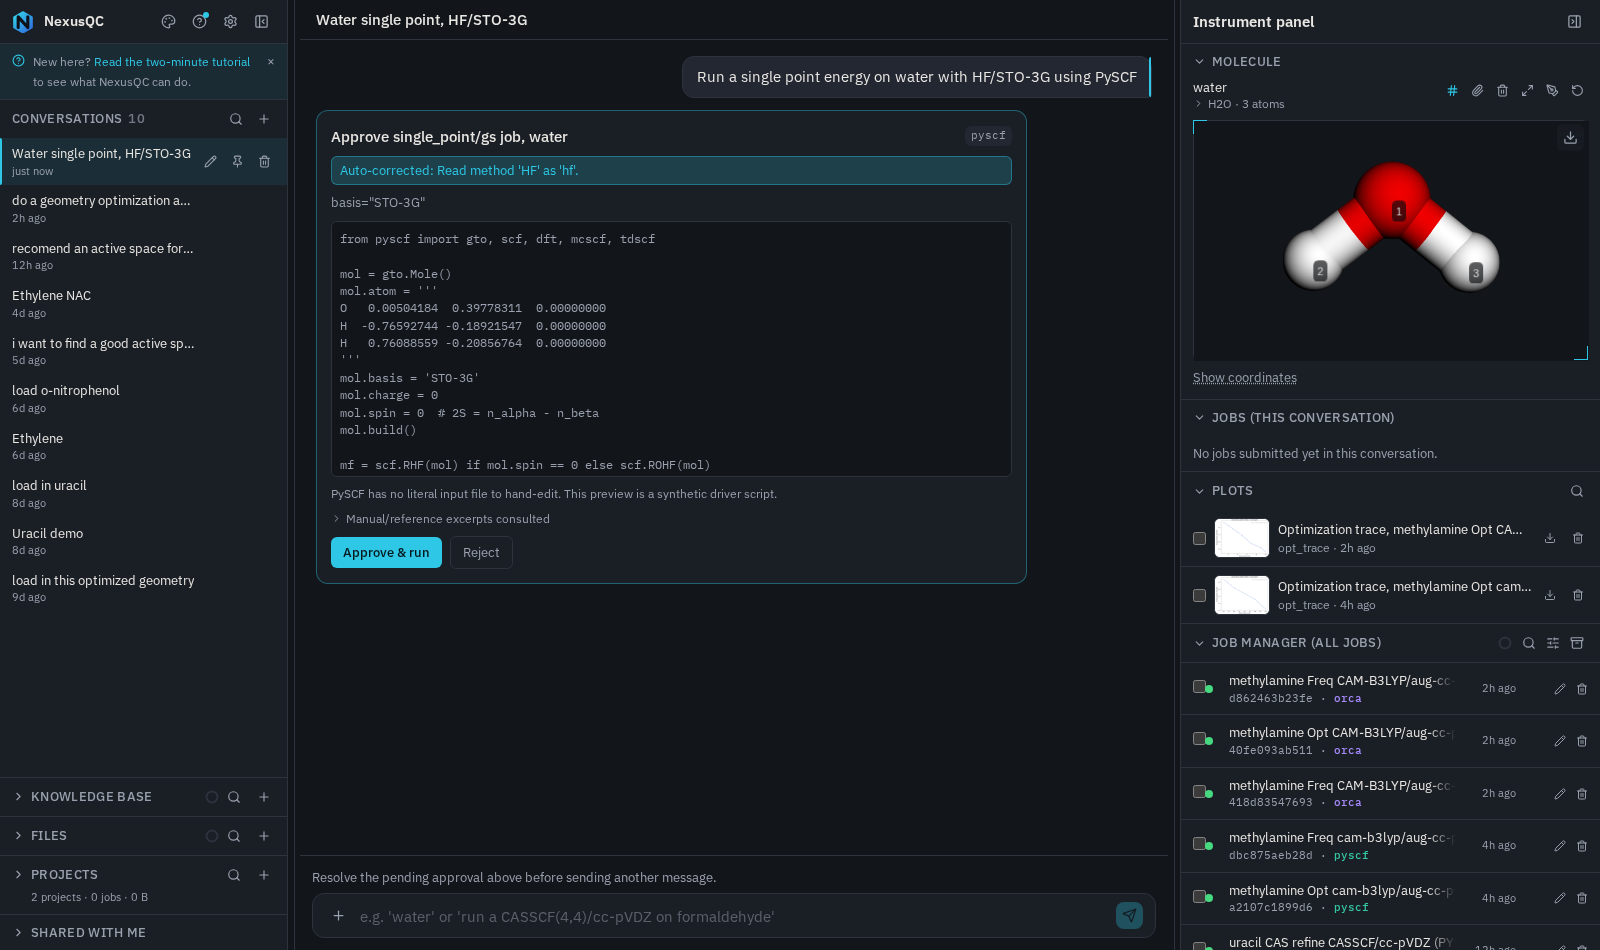
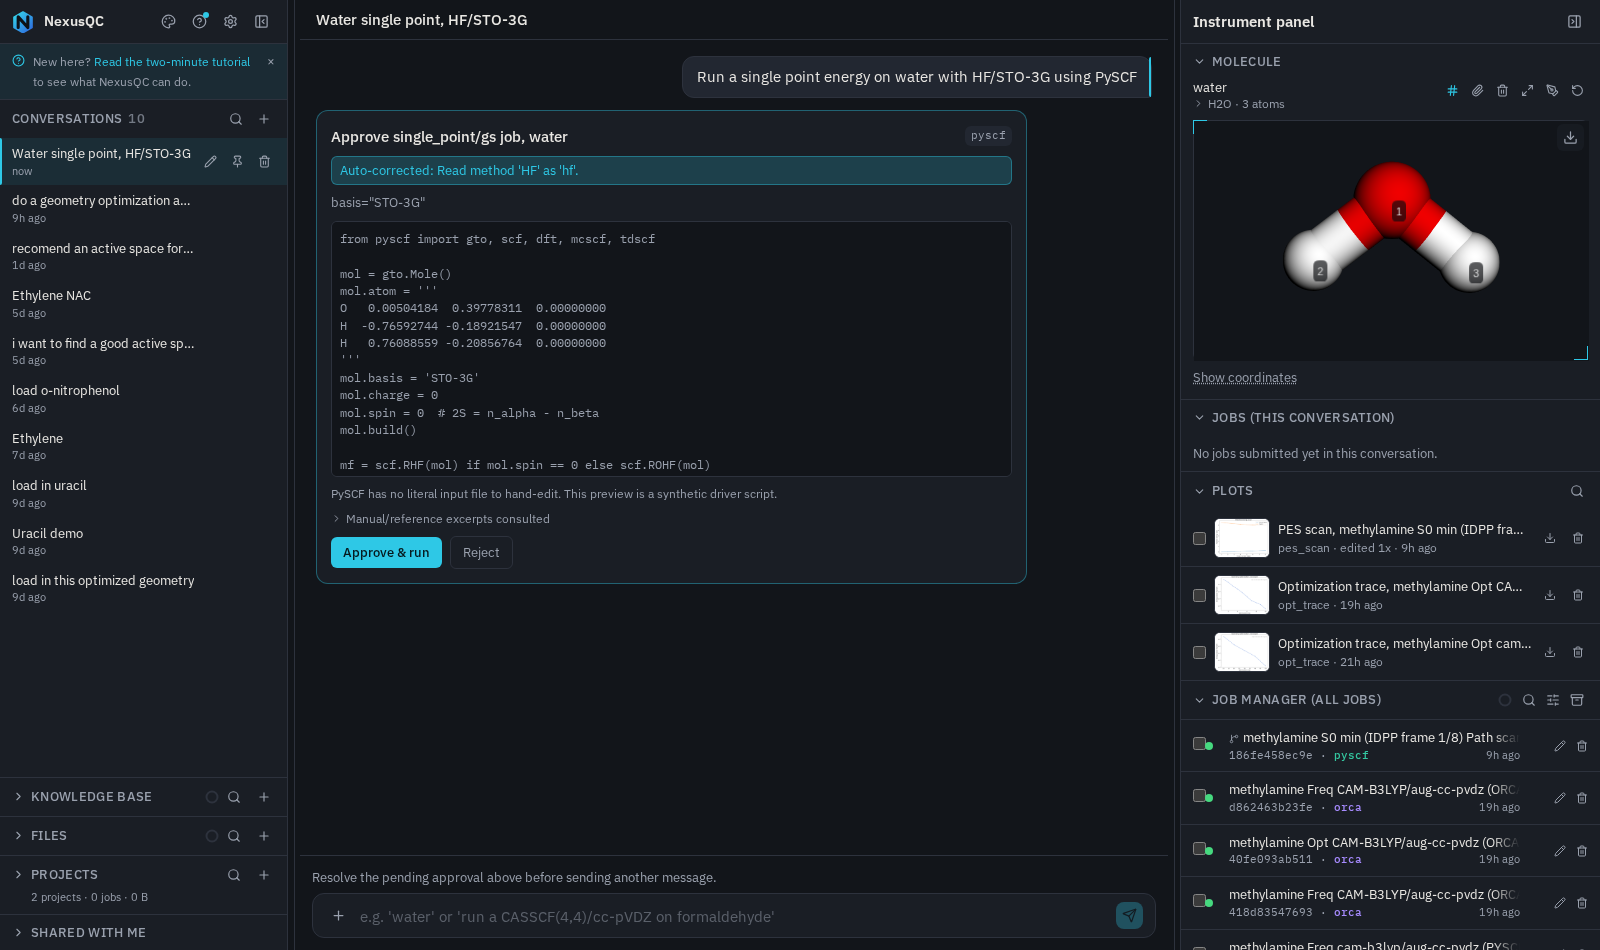
Record the merge and retake the two pictures the README leads with
The job rows in both screenshots still showed the timestamp as a column of its
own, which is exactly the sort of stale picture the renderer exists to prevent.

Claude-Session: https://claude.ai/code/session_01LzAjt3RowiSTr1pgjEM8Bo

Changed region(s): [[0.75, 0.8242, 0.9688, 1.0], [0.75, 0.6411, 1.0, 0.7937], [0.7812, 0.5495, 0.9375, 0.58]]

diff --git a/docs/TRACKER.md b/docs/TRACKER.md
@@ -72,7 +72,7 @@ copies, three of them byte-identical, in `JobManagerPanel.tsx`, `JobsPanel.tsx`,
 - [done] P1.4: Panel-scoped kill testids so both lists can be measured
   evidence: frontend/src/jobs/KillButton.tsx → "testIdPrefix defaults to job-kill so every existing selector still resolves (ui_06 21/21, which measures job-kill-<id> in the Jobs panel); the Job Manager passes jobmanager-kill, and ui_16 measures that one specifically"
 
-merged: pending
+- merged: ea6ba45f6349c284fd851832a3ef326668597686
 
 ## Phase 2: Proving it
 
@@ -83,4 +83,4 @@ merged: pending
 - [done] P2.3: Look at it, in a browser, at both ends of the text-size range
   evidence: tests/frontend/jobrow_shots.mjs → "11 screenshots of the Job Manager and the per-conversation Jobs panel in Balmer at text scale 1 and 1.35 and in Daylight, each in three states: at rest, mid-confirm, and with archived shown so a row carries rename + unarchive + Delete at once. Looked at: the timestamp sits at the right end of the job-id line on the same baseline, the long name fades where the column used to cut it, the running row shows a filled Stop square with the live hairline beside its amber dot, and nothing is clipped at either text size in either theme"
 
-merged: pending
+- merged: ea6ba45f6349c284fd851832a3ef326668597686
